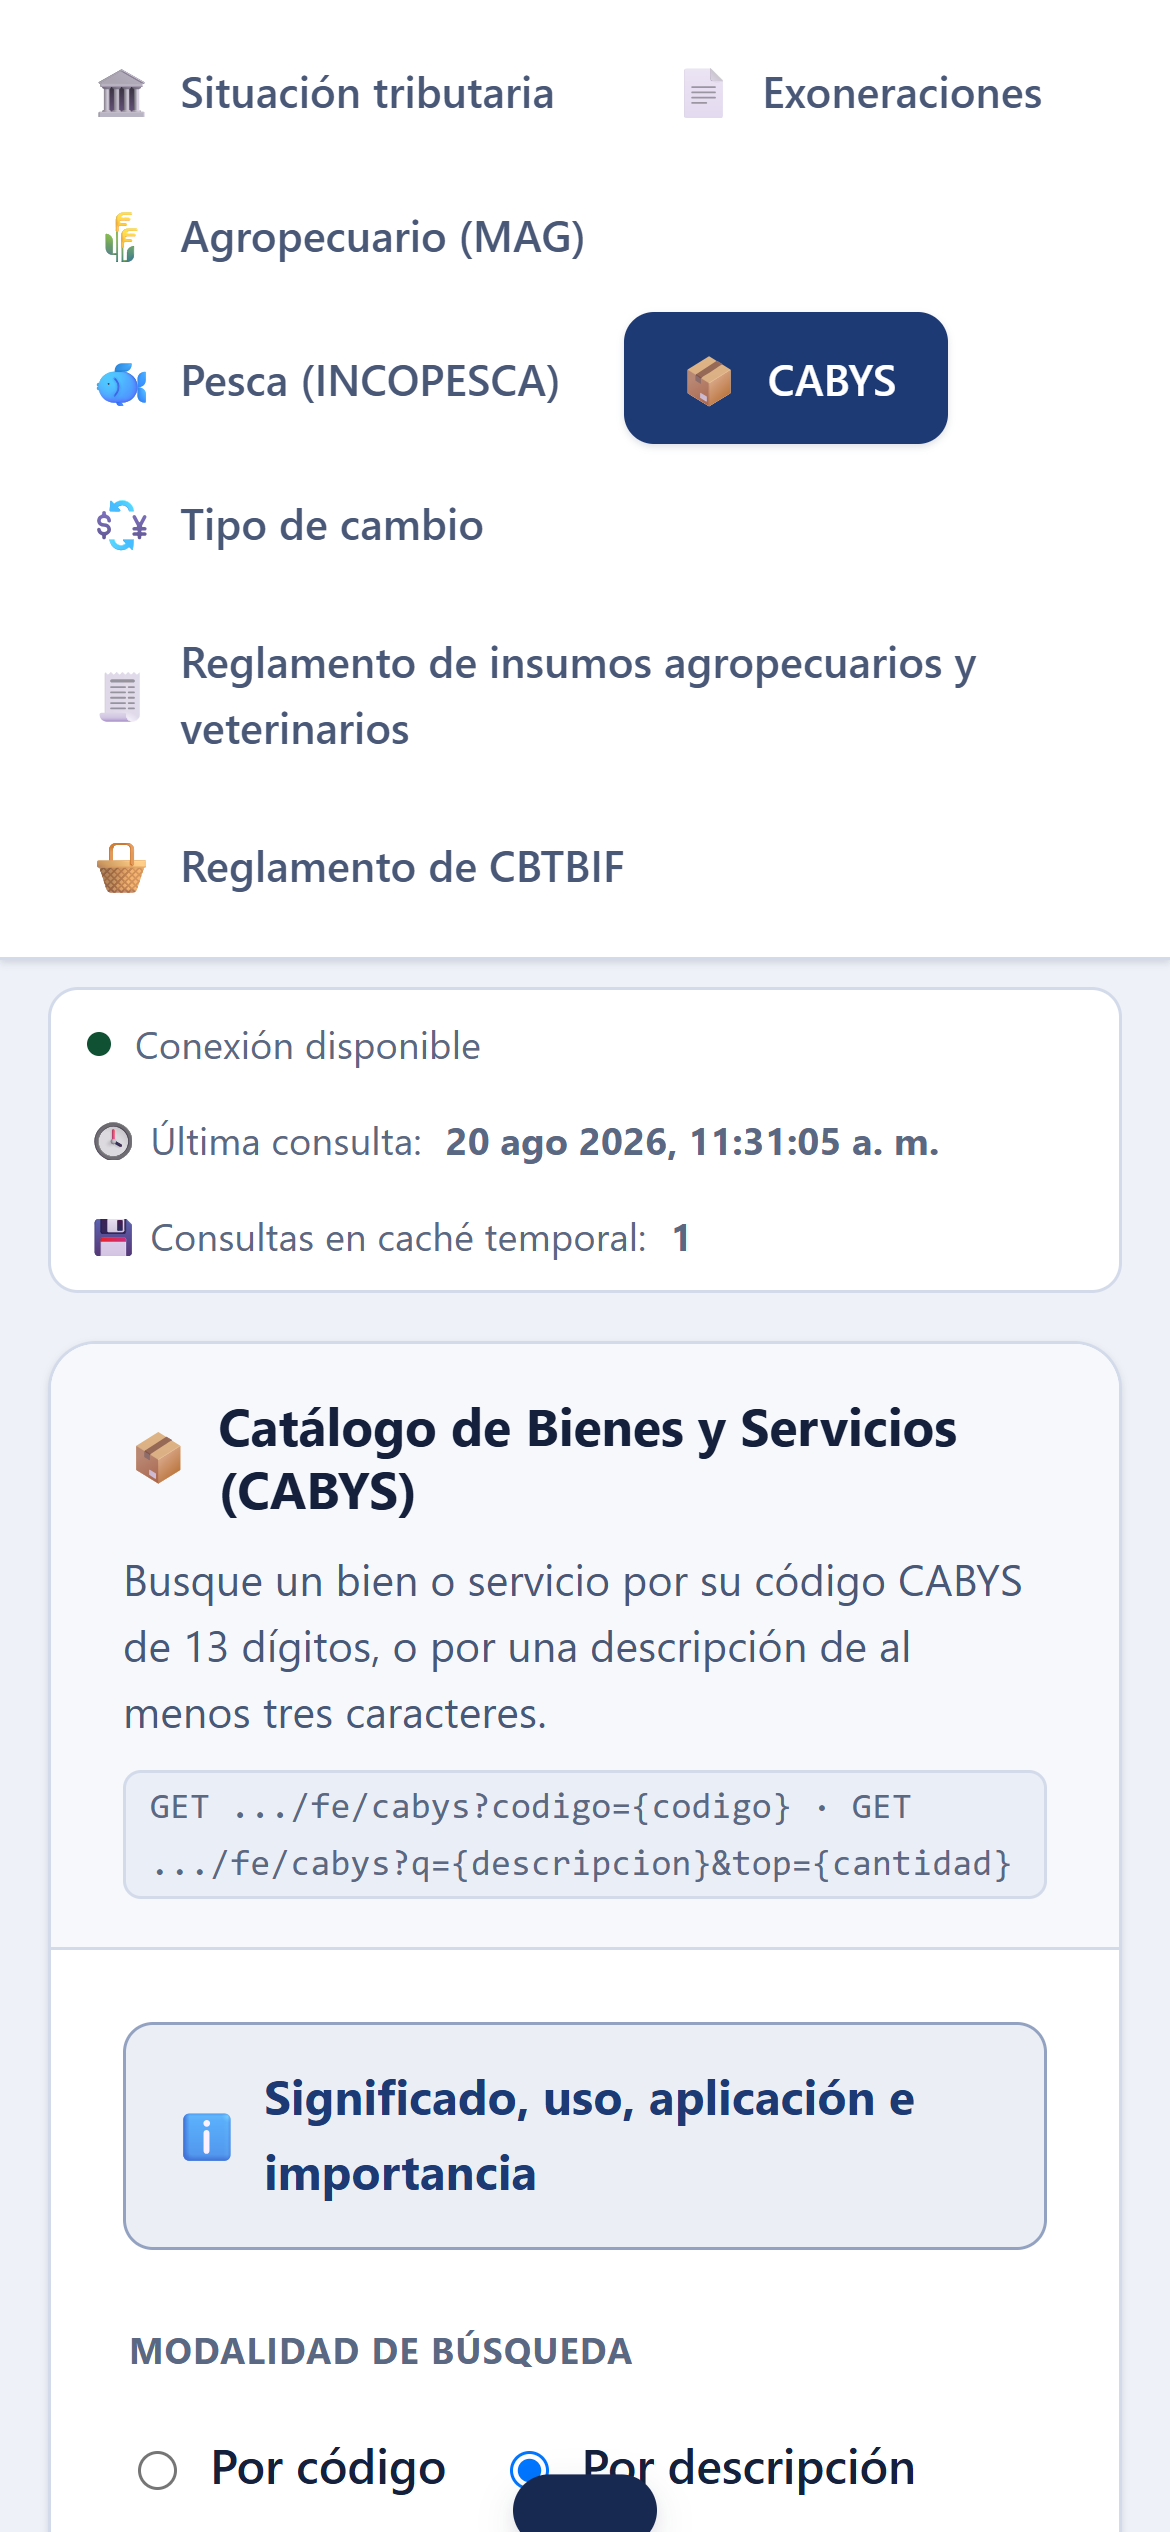
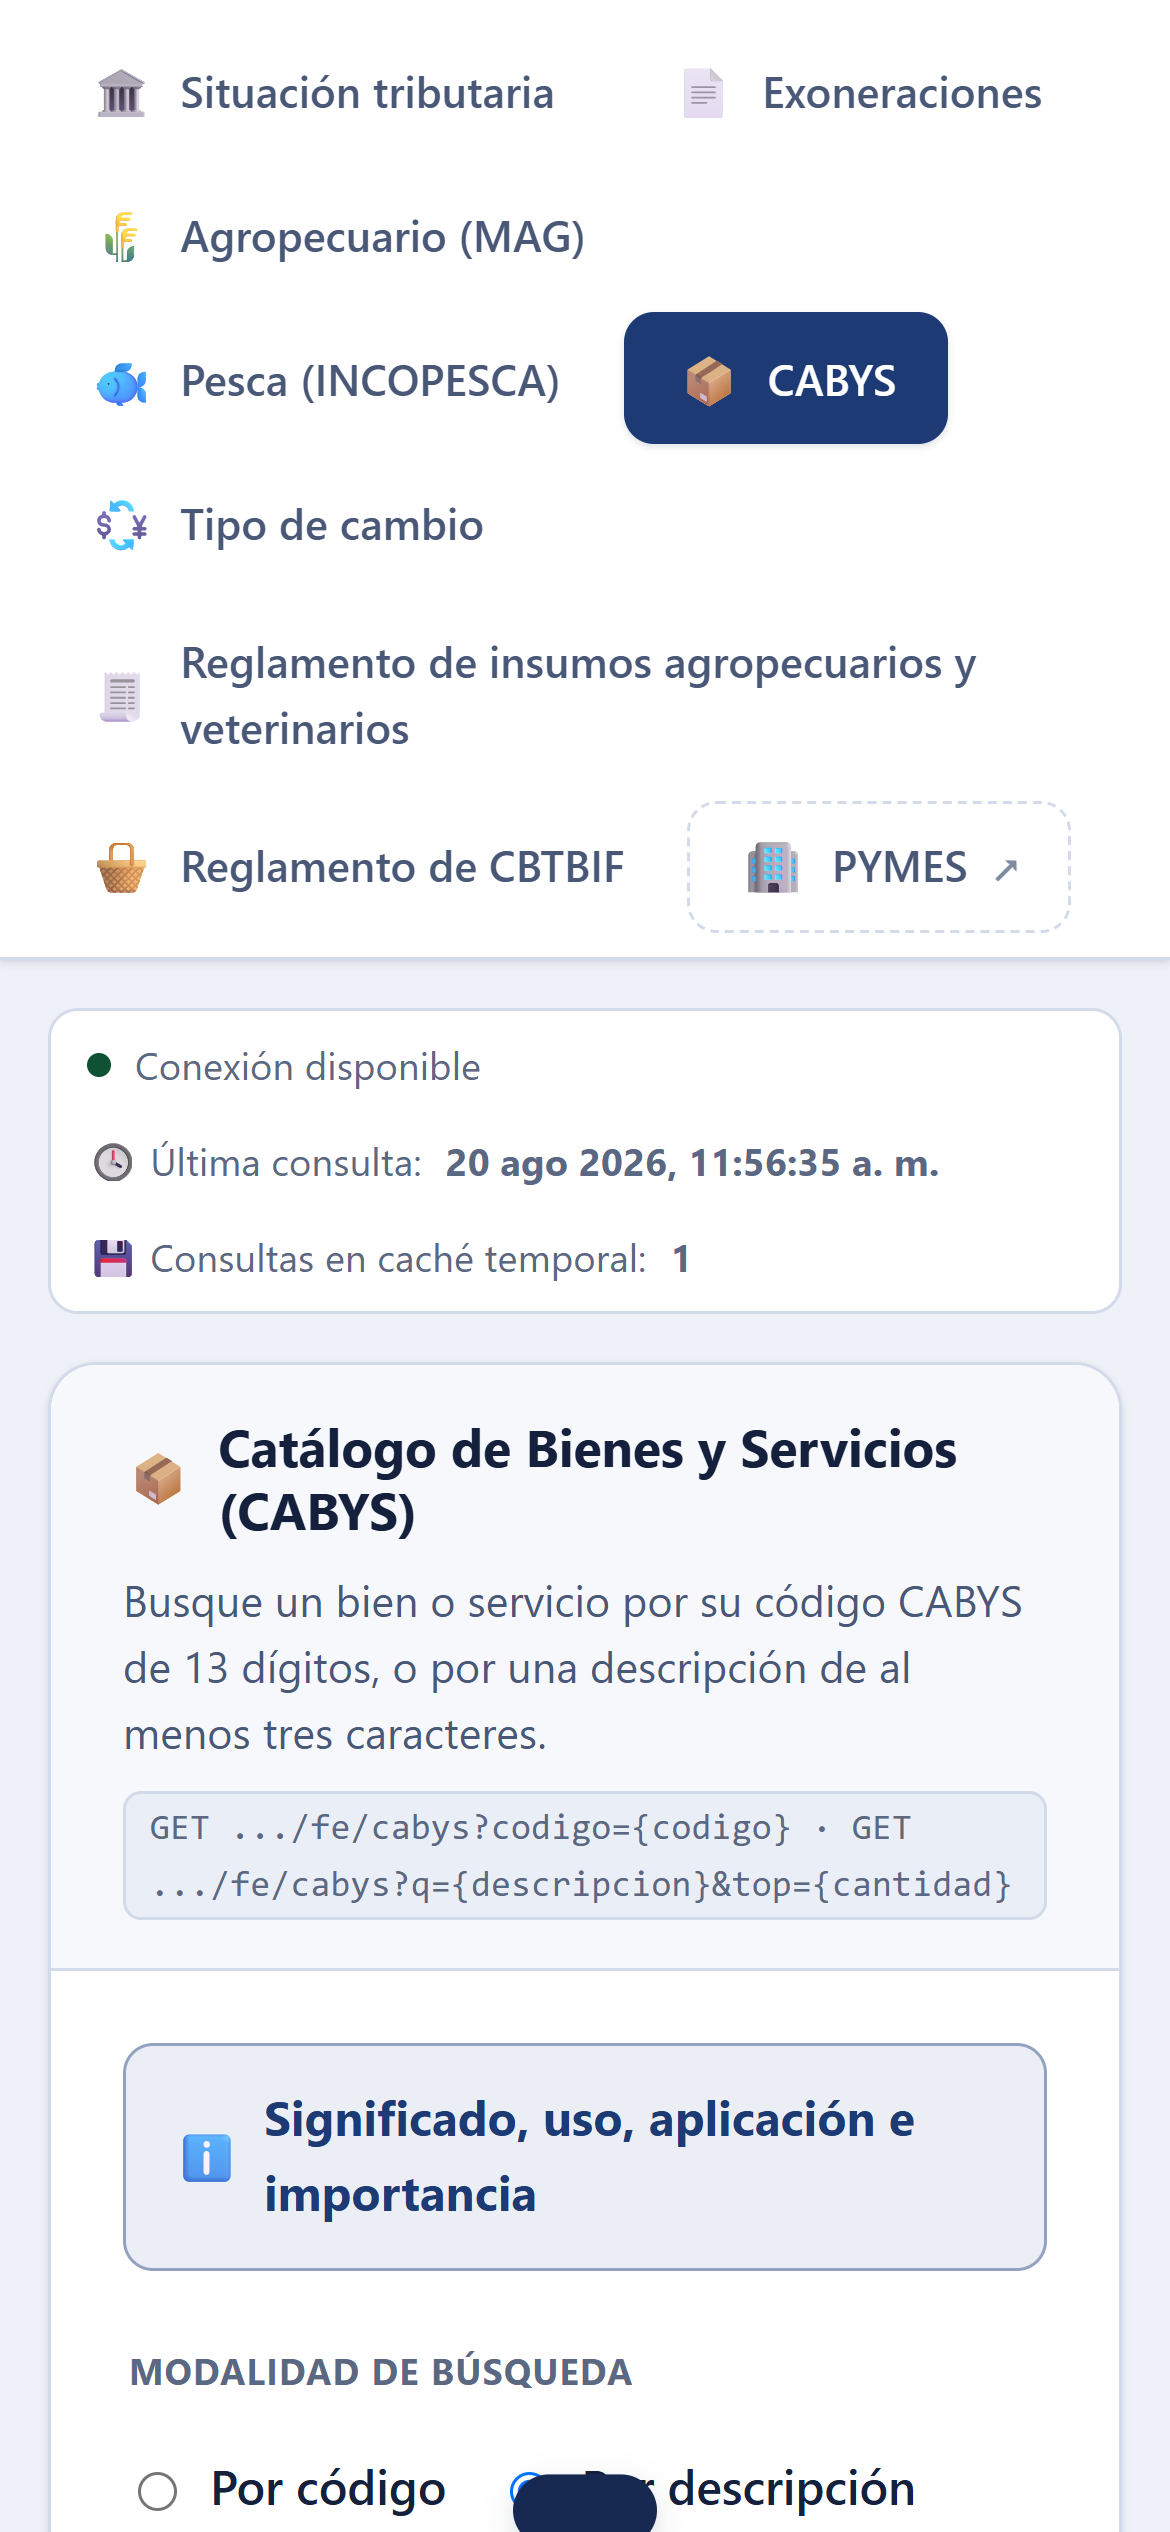
Traslada el enlace de PYMES a la barra de pestañas
Lo mueve del encabezado a la fila de pestañas, junto a los módulos,
para que quede visible de inmediato al entrar al sitio. Se marca con
borde discontinuo y el símbolo ↗ para diferenciarlo de un módulo real,
ya que no abre un panel propio: enlaza directo al buscador oficial de
PYMES activas del MEIC.

diff --git a/index.html b/index.html
@@ -398,6 +398,10 @@ body:has(.manual-dialog[open],.admin-dialog[open]){ overflow:hidden; }
   border-color:var(--accent); box-shadow:var(--shadow-1);
 }
 .tab__ico{ font-size:1.05rem; line-height:1; }
+.tab--link{
+  text-decoration:none; border-style:dashed; border-color:var(--border);
+}
+.tab--link::after{ content:"↗"; font-size:.8rem; opacity:.7; }
 
 /* --- 1.5 Contenedor principal y tarjetas -------------------------------- */
 main{ max-width:var(--maxw); margin:0 auto; padding:var(--space-5) var(--space-4) var(--space-6); }
@@ -881,13 +885,6 @@ details.raw-wrap > summary{
         <span aria-hidden="true">✅</span>
         <span>Verificar comprobante</span>
       </a>
-      <a class="tool-btn" id="btn-pymes"
-         href="https://www.meic.go.cr/tramites-y-servicios/pymes-activas/"
-         target="_blank" rel="noopener noreferrer"
-         aria-label="Buscar PYMES activas en el sitio oficial del Ministerio de Economía, Industria y Comercio (abre en una pestaña nueva)">
-        <span aria-hidden="true">🏢</span>
-        <span>PYMES</span>
-      </a>
       <button type="button" class="tool-btn" id="btn-theme" aria-live="polite">
         <span aria-hidden="true" id="theme-ico">🌓</span>
         <span id="theme-label">Tema automático</span>
@@ -931,6 +928,12 @@ details.raw-wrap > summary{
     <button class="tab" role="tab" id="tab-cbtbif" aria-controls="panel-cbtbif" aria-selected="false" tabindex="-1">
       <span class="tab__ico" aria-hidden="true">🧺</span> Reglamento de CBTBIF
     </button>
+    <a class="tab tab--link" id="tab-pymes"
+       href="https://www.meic.go.cr/tramites-y-servicios/pymes-activas/"
+       target="_blank" rel="noopener noreferrer"
+       aria-label="Buscar PYMES activas en el sitio oficial del Ministerio de Economía, Industria y Comercio (abre en una pestaña nueva)">
+      <span class="tab__ico" aria-hidden="true">🏢</span> PYMES
+    </a>
   </div>
 </nav>
 
@@ -1001,6 +1004,9 @@ details.raw-wrap > summary{
 
       <h4>Reglamento de CBTBIF</h4>
       <p>Escriba una palabra clave para buscar entre los bienes de la Canasta Básica Tributaria por el Bienestar Integral de las Familias (Decreto 43790-H-MEIC-S), o filtre primero por categoría. Todos los resultados llevan la tarifa reducida del 1&nbsp;% de IVA. El botón "Reglamento de CBTBIF" abre la norma completa en SINALEVI.</p>
+
+      <h4>PYMES</h4>
+      <p>A diferencia de los demás módulos, «PYMES» no abre un panel de consulta dentro de la aplicación: es un acceso directo (marcado con ↗) al buscador oficial de PYMES activas del Ministerio de Economía, Industria y Comercio (MEIC), que se abre en una pestaña nueva. Ahí puede escribir el nombre o la cédula de una empresa para verificar si conserva la condición PYME vigente, sobre un registro de más de 41&nbsp;000 empresas actualizado a diario.</p>
     </section>
 
     <section class="manual__section" id="manual-resultados">
@@ -1019,7 +1025,6 @@ details.raw-wrap > summary{
       <h3>4. Herramientas del encabezado</h3>
       <ul>
         <li><strong>Verificar comprobante:</strong> abre el verificador oficial de comprobantes electrónicos de Hacienda en una pestaña nueva.</li>
-        <li><strong>PYMES:</strong> abre en una pestaña nueva el buscador oficial de PYMES activas del Ministerio de Economía, Industria y Comercio (MEIC), con más de 41&nbsp;000 registros actualizados a diario. Úselo para verificar si una empresa tiene la condición PYME vigente.</li>
         <li><strong>Asistente virtual:</strong> abre en una pestaña nueva el asistente de ACC Contadores, para consultas contables y tributarias, agendamiento de citas, cotizaciones y facturación electrónica. Úselo cuando el resultado de una consulta requiera interpretación o cuando necesite acompañamiento profesional para el trámite.</li>
         <li><strong>Tema automático:</strong> alterna entre apariencia automática, clara y oscura.</li>
         <li><strong>Limpiar caché:</strong> elimina de la memoria del navegador los resultados temporales de esta sesión.</li>

diff --git a/README.md b/README.md
@@ -116,17 +116,18 @@ A diferencia de los módulos anteriores, este no consulta ninguna API: busca sob
 
 Igual que el módulo anterior, no consulta ninguna API: busca sobre una lista de 236 bienes transcrita del artículo 5 del texto vigente del Decreto Ejecutivo N.º 43790-H-MEIC-S, que reglamenta la lista de bienes de la Canasta Básica Tributaria por el Bienestar Integral de las Familias (CBTBIF) creada por la Ley N.º 9914, agrupados en sus 20 categorías oficiales (panes y cereales, lácteos, carnes, aceites, frutas y vegetales, artículos de higiene y limpieza del hogar, entre otras), embebida en el propio `index.html`. Funciona sin conexión. El botón «Ver texto oficial y conceptos» abre el texto completo de la norma en SINALEVI en una pestaña nueva, con la misma naturaleza de enlace de navegación deliberado que el del Módulo 7.
 
+### PYMES · acceso directo al buscador oficial (sin panel propio)
+
+Al final de la barra de pestañas, marcado con ↗ y borde discontinuo para distinguirlo de un módulo real, hay un enlace «PYMES» que no abre un panel de consulta: lleva directamente al buscador oficial de PYMES activas del Ministerio de Economía, Industria y Comercio (MEIC), en `meic.go.cr/tramites-y-servicios/pymes-activas/`. Ese buscador vive fuera de esta aplicación a propósito. El listado completo que publica el MEIC pesa más de 10 MB, tiene más de 41 000 registros y se genera a diario; ni el archivo descargable ni la tabla que lo sirve envían cabeceras CORS, así que un `fetch()` desde `github.io` no podría leer la respuesta. Incrustar una copia local implicaría además una fotografía de un mes concreto que quedaría desactualizada dentro de la propia aplicación. Enlazar al buscador oficial de MEIC evita ambos problemas y entrega siempre la condición PYME vigente el día de la consulta.
+
 ### Accesos externos de la cabecera
 
-Además de los ocho módulos de consulta, la barra de herramientas ofrece tres accesos que **no son endpoints**: son enlaces que se abren en una pestaña nueva, con `rel="noopener noreferrer"`.
+Además de los ocho módulos de consulta y del enlace «PYMES», la barra de herramientas ofrece dos accesos que **no son endpoints**: son enlaces que se abren en una pestaña nueva, con `rel="noopener noreferrer"`.
 
 | Botón | Destino | Para qué sirve |
 |---|---|---|
 | ✅ Verificar comprobante | `ovitribucr.hacienda.go.cr/tico/comprobante/comprobante-electronico/` | Verificador oficial de comprobantes electrónicos del Ministerio de Hacienda |
-| 🏢 PYMES | `meic.go.cr/tramites-y-servicios/pymes-activas/` | Buscador oficial de PYMES activas del Ministerio de Economía, Industria y Comercio (MEIC), con más de 41 000 registros actualizados a diario |
 | 💬 Asistente virtual | `josancajimenez-debug.github.io/acc-asistente/` | Asistente Virtual de ACC Contadores: consultas contables y tributarias, agendamiento de citas, cotizaciones y facturación electrónica |
-
-El buscador de PYMES no se incrusta en `index.html` a propósito: el listado completo pesa más de 10 MB, se genera a diario y ni el archivo descargable ni la tabla que lo sirve envían cabeceras CORS, así que un `fetch()` desde `github.io` no podría leer la respuesta. Enlazar al buscador oficial de MEIC evita ambos problemas y entrega una consulta siempre vigente, en vez de una fotografía mensual que quedaría desactualizada en la propia aplicación.
 
 El Asistente virtual está también accesible desde el pie de página, junto a los datos de contacto, para quien llegue al final de una consulta y necesite acompañamiento profesional para interpretar el resultado.
 
